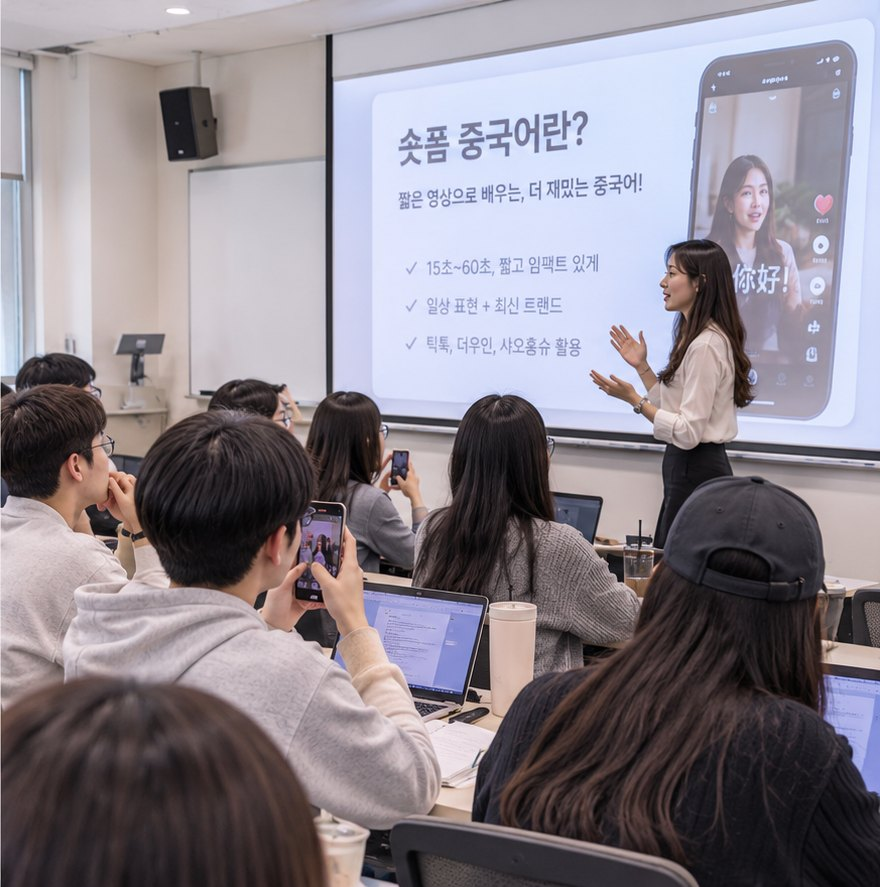
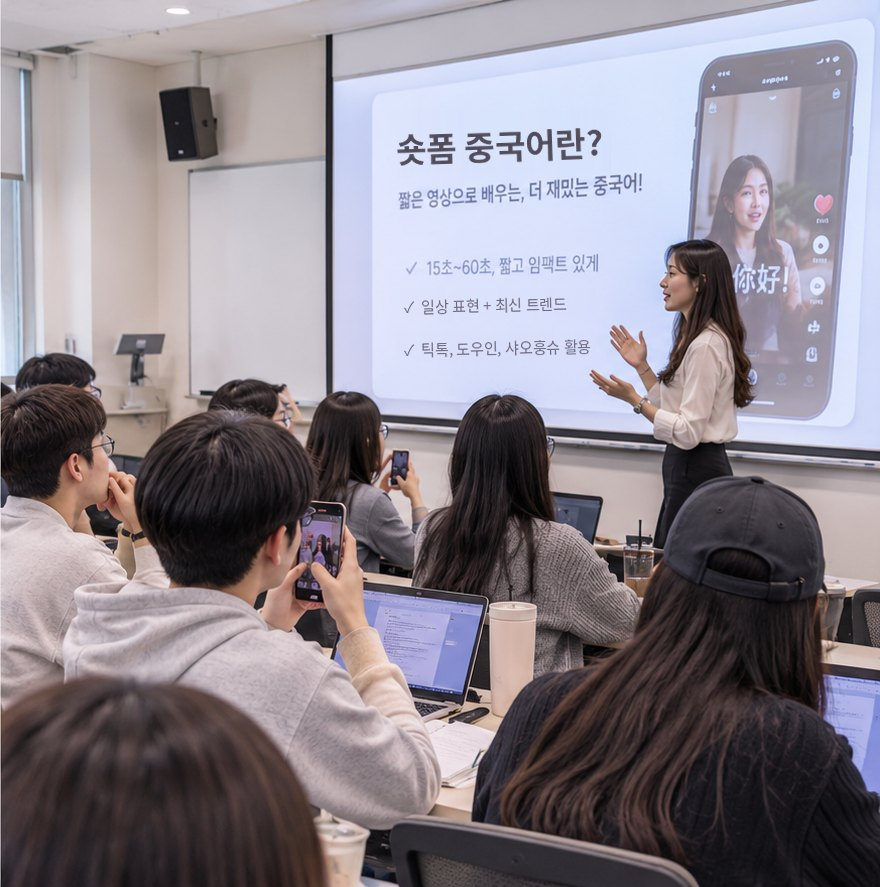
학습 화면 전체 배경을 수업 장면 사진(투명도 50%)으로, 사진 속 '솟폼' 글자를 '숏폼'으로 정정
- 배경·대문 1·2번 사진의 스크린 글자 정정(숏폼 중국어, 도우인, 트렌드)
- PC는 두 장면을 이어 붙인 사진, 모바일은 한 장면
- 사진 위 제목·탭·소제목에 반투명 바탕을 깔아 가독성 유지, 어두운 화면에서는 사진을 어둡게

Claude-Session: https://claude.ai/code/session_014QAASsuR9bEkuQJEasbG7c

Changed region(s): [[0.4602, 0.3348, 0.675, 0.4262], [0.4295, 0.1218, 0.7057, 0.1826]]

diff --git a/public/styles.css b/public/styles.css
@@ -912,3 +912,14 @@ details.faq p { margin: 10px 0 0; color: var(--ink-2); font-size: 14px; }
 .word .top { flex-wrap: wrap; }
 .word .hz.long { white-space: normal; word-break: keep-all; }
 @media (max-width: 480px) { .tabs { gap: 0; } .tabs button { padding: 10px 6px; font-size: 13.5px; } }
+
+/* 학습 화면 전체 배경: 수업 장면 사진(투명도 50%) */
+body::before { content: ''; position: fixed; inset: 0; z-index: -1; pointer-events: none; background: url('/img/study-bg.jpg') center / cover no-repeat; opacity: 0.5; }
+@media (max-width: 760px) { body::before { background-image: url('/img/study-bg-m.jpg'); } }
+/* 배경 사진 위에 바로 놓이는 글자(제목·탭·소제목)는 반투명 바탕을 깔아 읽기 쉽게 */
+.page > .page-head:not(.week-head) { background: color-mix(in srgb, var(--bg) 84%, transparent); backdrop-filter: blur(6px); -webkit-backdrop-filter: blur(6px); border-radius: 16px; padding: 14px 18px; }
+.page .tabs { background: color-mix(in srgb, var(--bg) 86%, transparent); backdrop-filter: blur(6px); -webkit-backdrop-filter: blur(6px); border-radius: 12px 12px 0 0; padding: 0 6px; }
+.page .section-title, .page .section-label { display: inline-block; background: color-mix(in srgb, var(--bg) 86%, transparent); backdrop-filter: blur(6px); -webkit-backdrop-filter: blur(6px); border-radius: 10px; padding: 4px 12px; }
+/* 어두운 화면에서는 같은 50% 투명도로 두되 사진을 어둡게 해 눈부시지 않게 */
+@media (prefers-color-scheme: dark) { :root:not([data-theme="light"]) body::before { filter: brightness(0.4); } }
+:root[data-theme="dark"] body::before { filter: brightness(0.4); }
